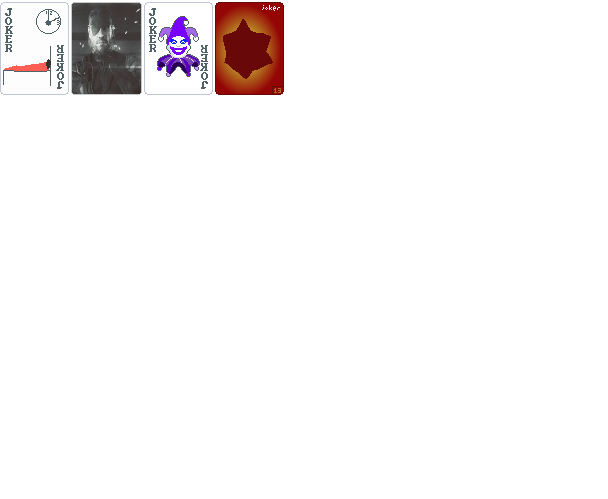
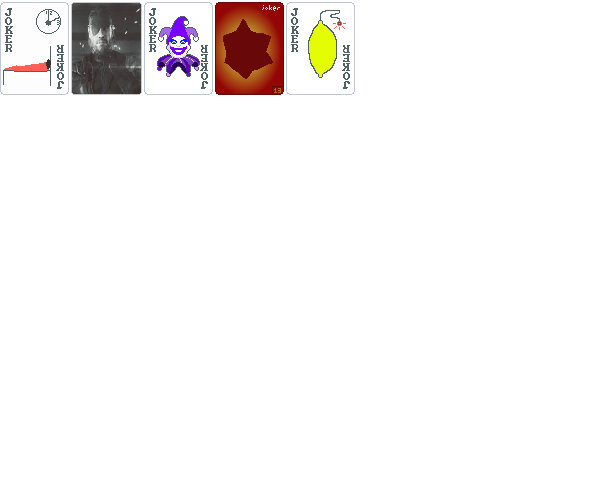
this SURELY cannot count as a version right?
changed the readme and added a new piece of art to the joker atlas. it has no joker to be on.... Yet.

Changed region(s): [[0.4688, 0.0, 0.5938, 0.1804]]

diff --git a/README.md b/README.md
@@ -18,4 +18,5 @@ A general purpose content mod with all sorts of things added.
 - Paya's Terrible Additions: 1 Joker
 
 # Credits
-- NaoRiley for (pre-SMODS adding it itself) score modification code
+- The many people on the Balatro Discord who endured the torrent of questions I asked
+- VanillaRemade and any other mod whose code was repurposed and hacked together for this
